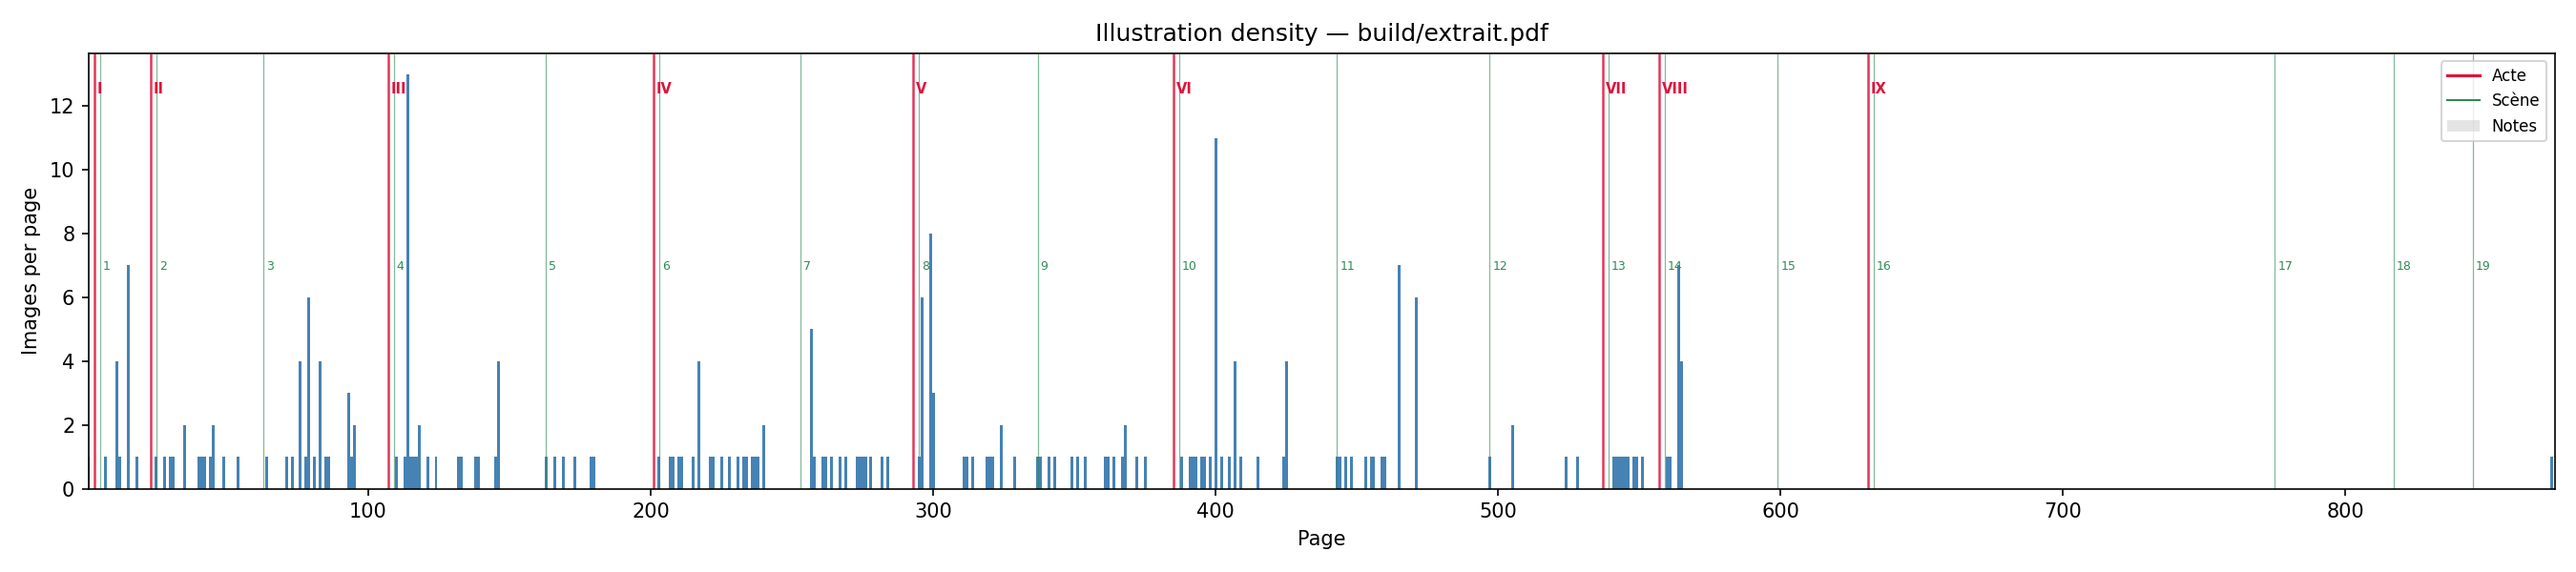
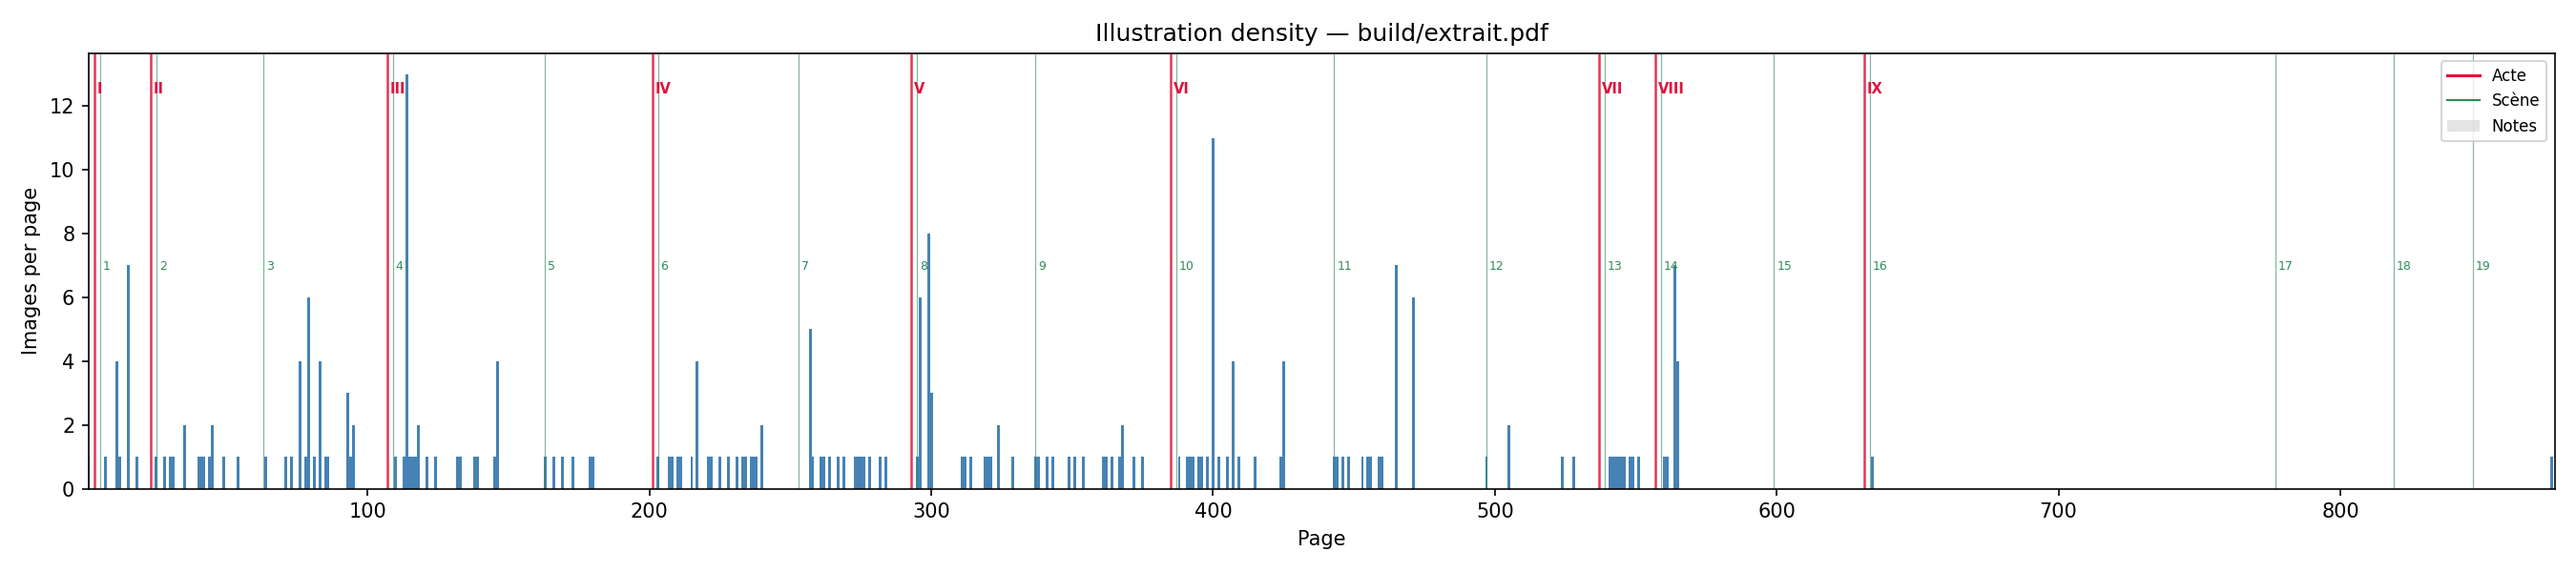
miscellaneous

diff --git a/extrait.tex b/extrait.tex
@@ -13,14 +13,7 @@
 % ═══ MAIN TEXT ════════════════════════════════════════════════════════════════
 \pagestyle{gallimard}
 
-\acte{
-  \input{actes/acte_09_1.tex}
-  \input{actes/acte_09_2.tex}
-  \input{actes/acte_09_2b.tex}
-  \input{actes/acte_09_3.tex}
-  \input{actes/acte_09_3b.tex}
-  \input{actes/acte_09_4.tex}
-}
+\input{tete_de_veau_ravigote_content.tex}
 % ← extrait content
 
 % ═══ TABLE DES MATIÈRES ══════════════════════════════════════════════════════

diff --git a/test_illus.tex b/test_illus.tex
@@ -7,12 +7,7 @@
 \pagestyle{gallimard}
 
 \acte{
-  \input{actes/acte_09_1.tex}
-  \input{actes/acte_09_2.tex}
-  \input{actes/acte_09_2b.tex}
-  \input{actes/acte_09_3.tex}
-  \input{actes/acte_09_3b.tex}
-  \input{actes/acte_09_4.tex}
+  \input{actes/acte_03.tex}
 }
 % ← change here
 

diff --git a/stats.md b/stats.md
@@ -31,22 +31,23 @@ Mots = texte original uniquement (hors contenu des notes `\nf{}`).
 Mots = texte original uniquement (hors contenu des notes `\nf{}`).
 % notes et % illustrations = rapport au nombre de mots.
 
-| Acte | Mots | % livre | Notes | % mots | Illustrations | % mots | % dial. |
-|-----:|-----:|--------:|------:|-------:|--------------:|-------:|--------:|
-| I    |   3 930 |   2.12% |    22 |  0.56% |            14 |  0.36% |   4.53% |
-| II   |  17 206 |   9.26% |    85 |  0.49% |            38 |  0.22% |  12.88% |
-| III  |  19 494 |  10.50% |   110 |  0.56% |            37 |  0.19% |  34.95% |
-| IV   |  19 613 |  10.56% |    88 |  0.45% |            39 |  0.20% |  29.75% |
-| V    |  19 682 |  10.60% |   100 |  0.51% |            42 |  0.21% |  42.86% |
-| VI   |  29 689 |  15.99% |   198 |  0.67% |            58 |  0.20% |  46.58% |
-| VII  |   2 849 |   1.53% |    13 |  0.46% |             9 |  0.32% |  56.20% |
-| VIII |  16 323 |   8.79% |   109 |  0.67% |            13 |  0.08% |  21.72% |
-| IX   |  56 944 |  30.66% |   337 |  0.59% |             1 |  0.00% |  21.54% |
-| **Total** | **185 730** | **100%** | **1062** | **0.57%** | **251** | **0.14%** | **29.46%** |
+| Acte | p. | pp. | Mots | % livre | Notes | % mots | Illustrations | % mots | % dial. |
+|-----:|---:|----:|-----:|--------:|------:|-------:|--------------:|-------:|--------:|
+| I    |   3 |  14 |   3 930 |   2.12% |    22 |  0.56% |            14 |  0.36% |   4.53% |
+| II   |  17 |  56 |  17 206 |   9.26% |    85 |  0.49% |            38 |  0.22% |  12.88% |
+| III  |  73 |  68 |  19 494 |  10.50% |   110 |  0.56% |            37 |  0.19% |  34.95% |
+| IV   | 141 |  64 |  19 613 |  10.56% |    88 |  0.45% |            39 |  0.20% |  29.75% |
+| V    | 205 |  66 |  19 682 |  10.60% |   100 |  0.51% |            42 |  0.21% |  42.86% |
+| VI   | 271 | 106 |  29 689 |  15.99% |   198 |  0.67% |            58 |  0.20% |  46.58% |
+| VII  | 377 |  14 |   2 849 |   1.53% |    13 |  0.46% |             9 |  0.32% |  56.20% |
+| VIII | 391 |  54 |  16 323 |   8.79% |   109 |  0.67% |            13 |  0.08% |  21.72% |
+| IX   | 445 | 182 |  56 944 |  30.66% |   337 |  0.59% |             1 |  0.00% |  21.54% |
+| **Total** |  |  | **185 730** | **100%** | **1062** | **0.57%** | **251** | **0.14%** | **29.46%** |
 
 ## Estimation illustrations restantes
 
-Cible : **1 illustration tous les 550 mots** (185 730 mots → **338** illustrations).  
-Actuellement **251** — il en manque **87** — **74.3 %** réalisé.
+Cible : **1 illustration tous les 600 mots** (185 730 mots → **310** illustrations).  
+Actuellement **251** — il en manque **59** — **81.0 %** réalisé.
 
-Sous-illustrées (< 0.5× la cible) : III.5 (6/15.3), VI.12 (5/16.4), VIII.15 (0/12.1), IX.16 (1/60.1), IX.17 (0/19.0), IX.18 (0/13.4), IX.19 (0/11.0)
+Sur-illustrées (> 2× la cible) : I.1 (14/6.5)
+Sous-illustrées (< 0.5× la cible) : III.5 (6/14.0), VI.12 (5/15.0), VIII.15 (0/11.1), IX.16 (1/55.1), IX.17 (0/17.4), IX.18 (0/12.3), IX.19 (0/10.1)

diff --git a/actes/word_count.md b/actes/word_count.md
@@ -4,10 +4,10 @@
 |------|---------|-----:|----------:|:-------:|------:|-------:|
 | Acte 1 | acte_01.tex | 4 046 | 2,0 % | ☑ | 13 | 0,32 % |
 | Acte 2 | acte_02.tex | 17 790 | 9,0 % | ☑ | 73 | 0,41 % |
-| Acte 3 | acte_03.tex | 20 799 | 10,5 % | ☑ | 74 | 0,36 % |
+| Acte 3 | acte_03.tex | 20 799 | 10,5 % | ☑ | 75 | 0,36 % |
 | Acte 4 | acte_04.tex | 20 454 | 10,3 % | ☑ | 64 | 0,31 % |
 | Acte 5 | acte_05.tex | 20 814 | 10,5 % | ☑ | 63 | 0,30 % |
-| Acte 6/1 | acte_06_1.tex | 22 360 | 11,3 % | ☑ | 103 * | 0,31 % * |
+| Acte 6/1 | acte_06_1.tex | 22 360 | 11,3 % | ☑ | 104 * | 0,32 % * |
 | Acte 6/2 | acte_06_2.tex | 10 520 | 5,3 % | ☑ |  |  |
 | Acte 7 | acte_07.tex | 2 948 | 1,5 % | ☑ | 11 | 0,37 % |
 | Acte 8 | acte_08.tex | 17 228 | 8,7 % | ☑ | 52 | 0,30 % |
@@ -17,7 +17,7 @@
 | Acte 9/3 | acte_09_3.tex | 15 134 | 7,7 % | ☑ |  |  |
 | Acte 9/3b | acte_09_3b.tex | 4 724 | 2,4 % | ☑ |  |  |
 | Acte 9/4 | acte_09_4.tex | 6 067 | 3,1 % | ☑ |  |  |
-| **Total** | | **197 598** | **100 %** | | **594** | **0,30 %** |
+| **Total** | | **197 598** | **100 %** | | **596** | **0,30 %** |
 
 > Décompte hors commandes LaTeX et commentaires.
 > **Diffs** = nombre de blocs supprimés/remplacés (via `latexdiff`), hors bruit typographique (apostrophes, guillemets, tirets, etc.).
